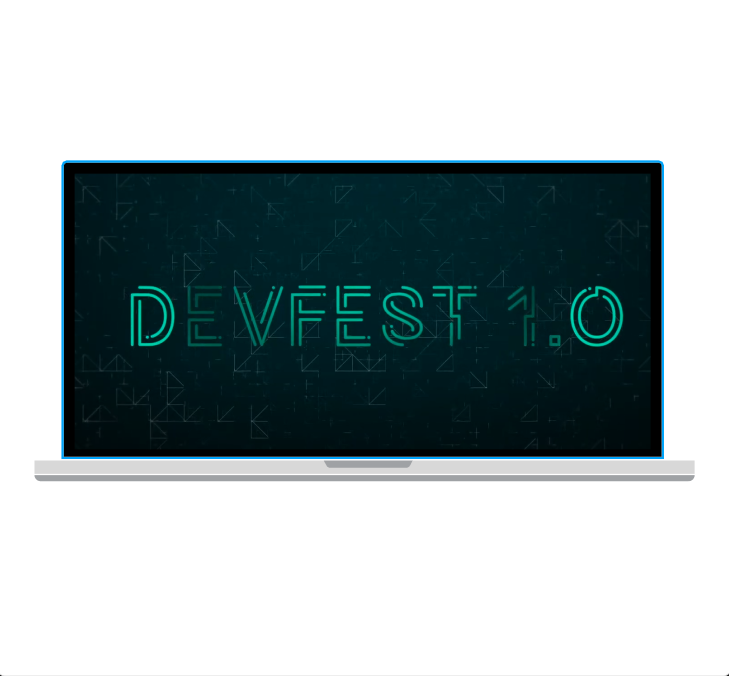
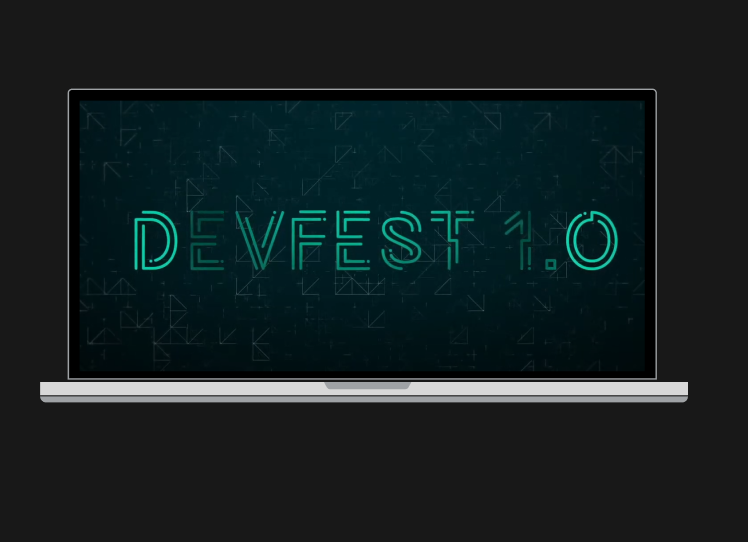
Updated according to design

diff --git a/src/sections/devfest1/devfest1.js b/src/sections/devfest1/devfest1.js
@@ -18,7 +18,7 @@ function Devfest() {
                   was a massive success with people joining in!
                </h4>
                <h4 className={`text ${DevfestStyle.sectionsubheading2}`}>
-                  BITS Pilani, Goa is back with yet another chaper of DevFest!
+                  BITS Pilani, Goa is back with yet another chapter of DevFest!
                </h4>
             </div>
 
@@ -34,7 +34,9 @@ function Devfest() {
                         <h4 className={`card-title ${DevfestStyle.cardtitle}`}>
                            10,000+ Registrations
                         </h4>
-                        <p className={`card-text ${DevfestStyle.cardtext}`}>
+                        <p
+                           className={`card-text col-md-6 ${DevfestStyle.cardtext}`}
+                        >
                            When you add work to your Slate calendar we
                            automatically calculate useful insights
                         </p>
@@ -45,7 +47,9 @@ function Devfest() {
                         <h4 className={`card-title ${DevfestStyle.cardtitle}`}>
                            500+ Colleges
                         </h4>
-                        <p className={`card-text ${DevfestStyle.cardtext}`}>
+                        <p
+                           className={`card-text col-md-6 ${DevfestStyle.cardtext}`}
+                        >
                            When you add work to your Slate calendar we
                            automatically calculate useful insights
                         </p>
@@ -56,7 +60,9 @@ function Devfest() {
                         <h4 className={`card-title ${DevfestStyle.cardtitle}`}>
                            20+ Talks and Workshops
                         </h4>
-                        <p className={`card-text ${DevfestStyle.cardtext}`}>
+                        <p
+                           className={`card-text col-md-6 ${DevfestStyle.cardtext}`}
+                        >
                            When you add work to your Slate calendar we
                            automatically calculate useful insights
                         </p>

diff --git a/src/sections/devsoc/devsoc.js b/src/sections/devsoc/devsoc.js
@@ -10,7 +10,10 @@ function Devsoc() {
             <div className="row">
                <div className="col-lg-12 text-center">
                   <h2 className={`text-center ${DevsocStyle.sectionheading}`}>
-                     DevSoc BITS Goa
+                     DevSoc;
+                  </h2>
+                  <h2 className={`text-center ${DevsocStyle.sectionheading2}`}>
+                     BITS Goa
                   </h2>
                   <h4 className={`text ${DevsocStyle.sectionsubheading}`}>
                      Developers Society of BITS Goa has been primarily

diff --git a/src/sections/devfest1/devfest1.module.scss b/src/sections/devfest1/devfest1.module.scss
@@ -46,9 +46,11 @@ body {
 }
 .background1 {
    position: relative;
+   padding: 10%;
 }
 .col2 {
    background: var(--primary);
+   padding-left: 12%;
 }
 .col1 {
    background: var(--primary);
@@ -66,6 +68,7 @@ body {
    font-weight: 500;
    font-size: 20px;
    text-align: left;
+   padding-bottom: 1rem;
 }
 .cardtext {
    font-family: 'Roboto', sans-serif;
